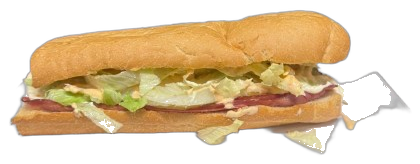
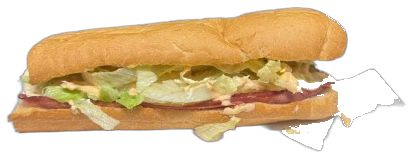
Clean leftover white plate fringe on Croque Hawaii #63 cutout.

diff --git a/lib/cutout-photo-metrics.ts b/lib/cutout-photo-metrics.ts
@@ -20,7 +20,7 @@ export const cutoutPhotoMetrics: Record<string, CutoutPhotoMetrics> = {
   '/essen/chiliburger455-nobg.png': { scale: 1.262, shiftX: '2.4%', shiftY: '2.3%' },
   '/essen/kebabburger658-nobg.png': { scale: 1.23, shiftX: '1%', shiftY: '-3.3%' },
   '/essen/gyrospita127.png': { scale: 0.95, shiftX: '2.3%', shiftY: '13.4%' },
-  '/essen/croquehawaii63-nobg.png': { scale: 0.88, shiftX: '0%', shiftY: '0.3%' },
+  '/essen/croquehawaii63-nobg.png': { scale: 0.88, shiftX: '0%', shiftY: '0%' },
   '/essen/croquegyros68.png': { scale: 0.958, shiftX: '0.1%', shiftY: '2.2%' },
   '/essen/bolognese49.png': { scale: 1.083, shiftX: '-5.6%', shiftY: '1.9%' },
   '/essen/makaronipfanne249.png': { scale: 0.934, shiftX: '3.2%', shiftY: '-1.6%' },

diff --git a/lib/menu-item-photo-versions.ts b/lib/menu-item-photo-versions.ts
@@ -18,7 +18,7 @@ export const menuItemPhotoVersions: Record<string, string> = {
   '/essen/chiliburger455-nobg.png': '1795032510531',
   '/essen/kebabburger658-nobg.png': '1795032510599',
   '/essen/gyrospita127.png': '1795032510583',
-  '/essen/croquehawaii63-nobg.png': '1795117259122',
+  '/essen/croquehawaii63-nobg.png': '1795118702693',
   '/essen/croquegyros68.png': '1795032510531',
   '/essen/bolognese49.png': '1795032510495',
   '/essen/makaronipfanne249.png': '1795032510607',
